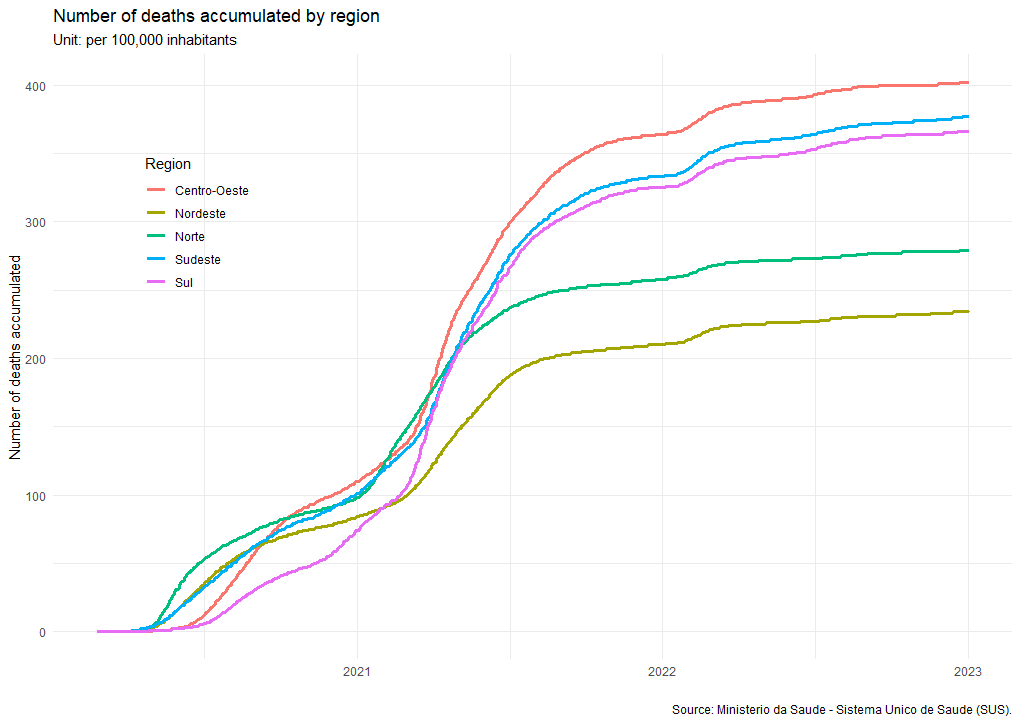
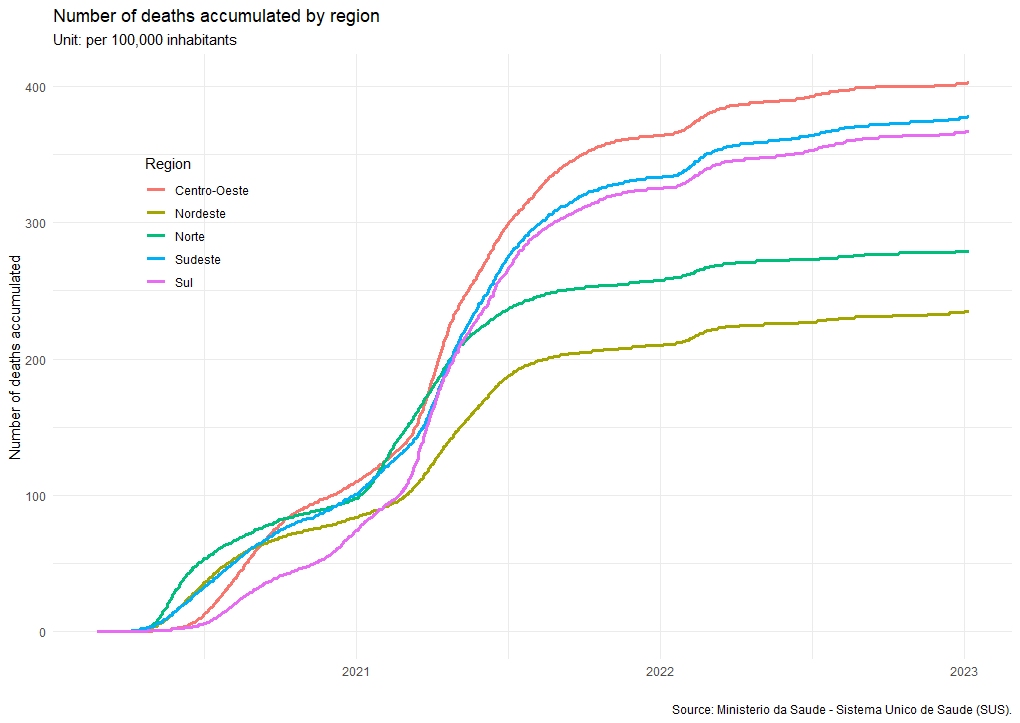
Update README file

diff --git a/README.md b/README.md
@@ -115,7 +115,7 @@ Data source: [Ministerio da Saude - Sistema Unico de Saude
 
 Below is the graph for the number of cases accumulated per 100,000
 inhabitants for each of the five macro-regions in Brazil, information
-until the 2023-01-02.
+until the 2023-01-06.
 
 <img src="man/figures/cases100.png" width="100%" />  
 
@@ -138,7 +138,7 @@ Data source: [Ministerio da Saude - Sistema Unico de Saude
 
 The graph below shows the number of accumulated deaths per 100,000
 inhabitants for each of Brazil’s five macro-regions, information until
-the 2023-01-02.
+the 2023-01-06.
 
 <img src="man/figures/deaths100.png" width="100%" />  
 
